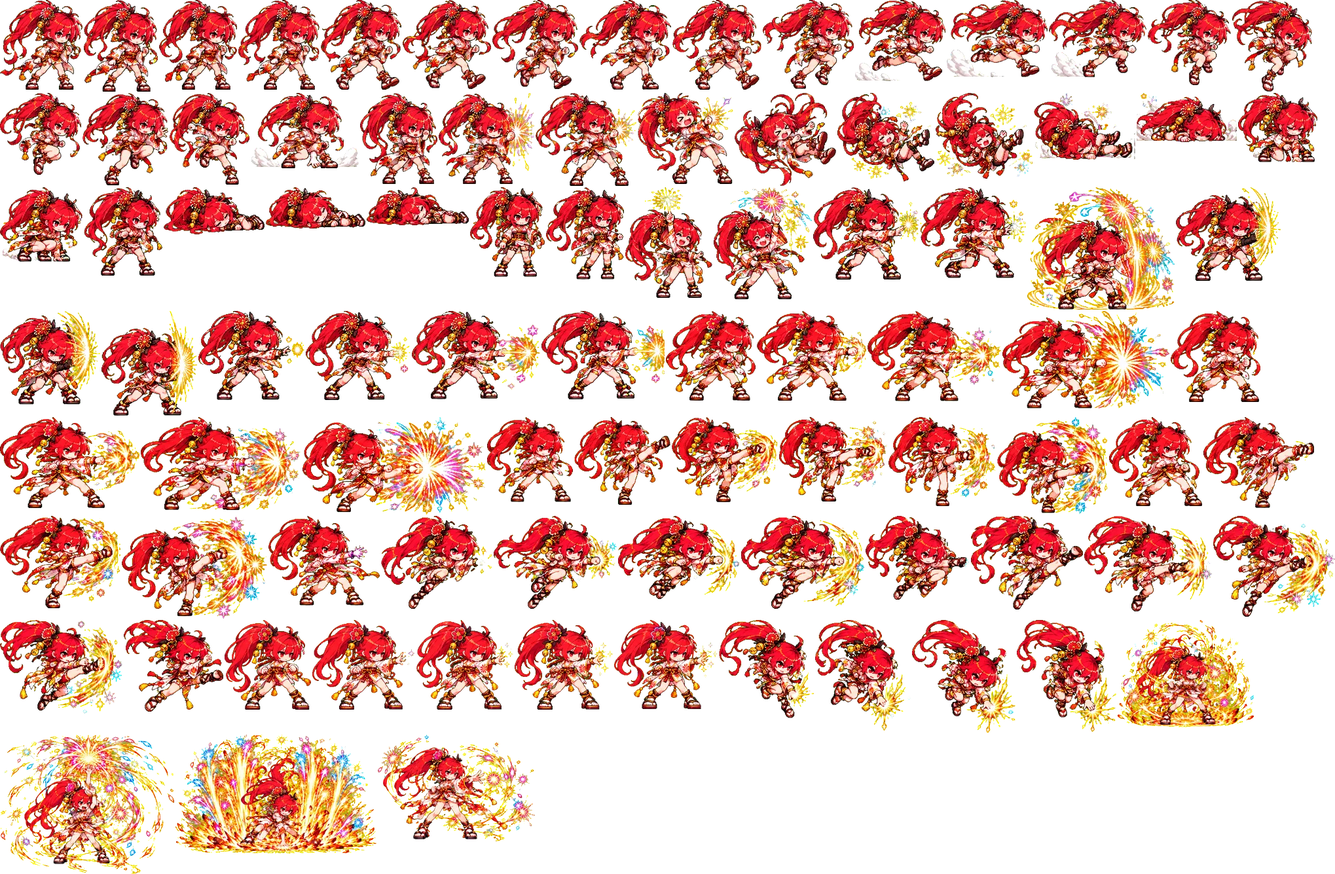
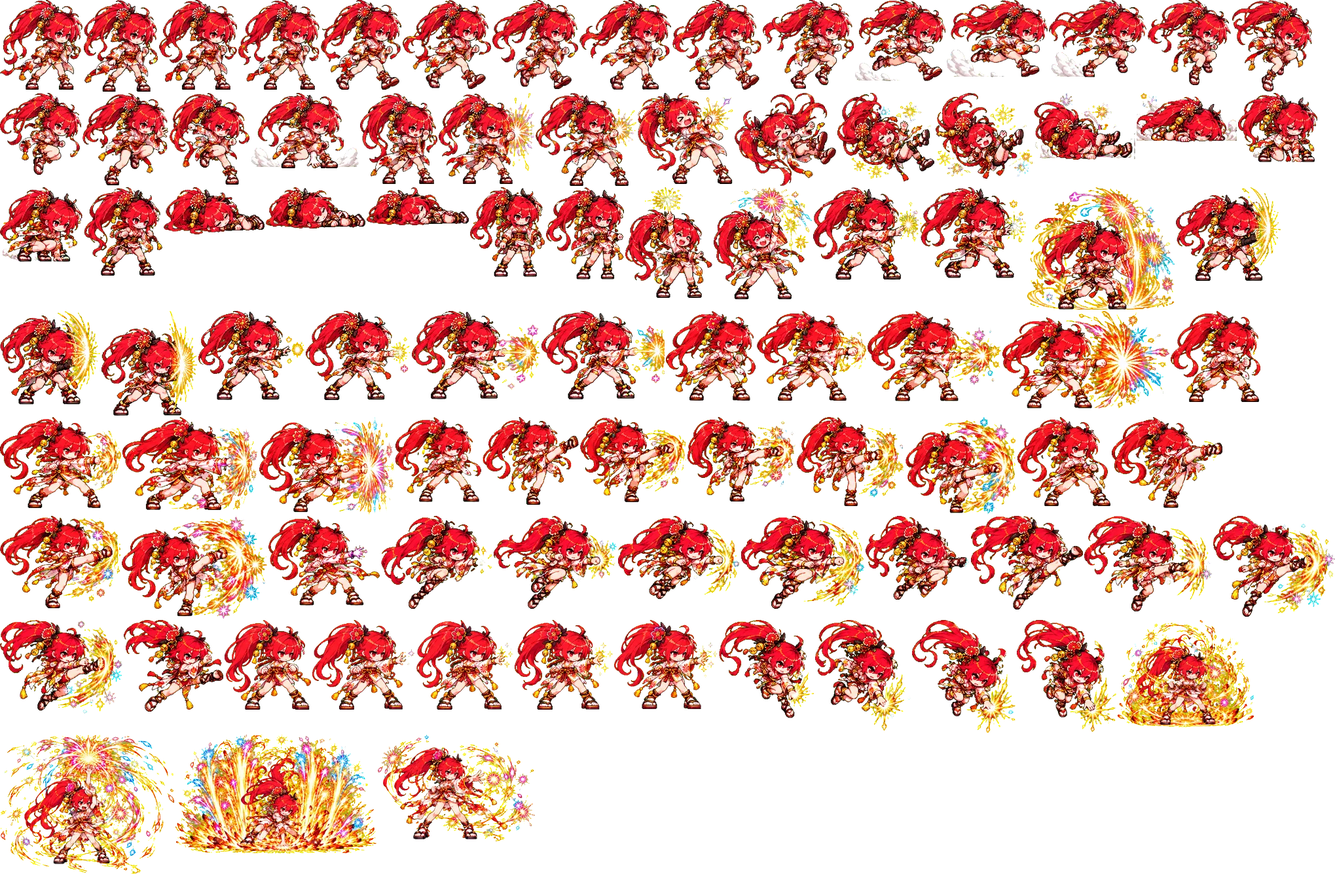
격투: 불꽃놀이 이그나 약공 4타 앞쪽 불꽃 이펙트 줄임 (판정보다 너무 멀리 보이던 것)
- 아틀라스 설정 shrinkFx: 지정 프레임의 앞쪽만 가로로 눌러 줄임 (몸은 그대로)
- 3·4타 프레임 끝 약 99px → 53·65px (판정 52px)

Claude-Session: https://claude.ai/code/session_01Q2UB7i4vqxayb5flgw9kqa

Changed region(s): [[0.0618, 0.4607, 0.9887, 0.5835]]

diff --git a/web/scripts/fight-atlas-v2.py b/web/scripts/fight-atlas-v2.py
@@ -83,6 +83,23 @@ def feet(piece: np.ndarray, anchor="feet"):
     return float(near.mean()), float(foot + 1)
 
 
+def shrink_front(p: np.ndarray, cut: float, k: float) -> np.ndarray:
+    """cut 오른쪽만 가로로 k배 눌러 줄임 (오른쪽을 보는 그림, cut 에서 이어지게 — 이음매 없음)"""
+    h, w = p.shape[:2]
+    c = int(round(cut))
+    if c >= w - 1:
+        return p
+    right = p[:, c:]
+    nw = max(1, round(right.shape[1] * k))
+    f = right.astype(np.float32)
+    f[..., :3] *= f[..., 3:4] / 255
+    g = np.asarray(Image.fromarray(f.astype(np.uint8), "RGBA").resize((nw, h), Image.LANCZOS)).astype(np.float32)
+    g[..., :3] = np.where(g[..., 3:4] > 0, g[..., :3] * 255 / np.maximum(g[..., 3:4], 1), 0)
+    out = np.concatenate([p[:, :c], np.clip(g, 0, 255).astype(np.uint8)], 1)
+    xs = np.where(out[..., 3].max(0) > 0)[0]
+    return out[:, : xs.max() + 1].copy()
+
+
 class Sheets:
     def __init__(self, src: Path, cfg: dict):
         self.src = src
@@ -167,6 +184,12 @@ def build(src_root: Path, cid: str):
     for ref, xy in spec.get("anchorFix", {}).items():
         if ref in seen:
             anchors[seen[ref]] = (float(xy[0]), float(xy[1]))
+    # 앞으로 뻗은 이펙트가 판정보다 너무 커 보이는 프레임: 앞쪽(발 기준 x 픽셀부터)만 k배로 줄임 (몸은 그대로)
+    #   "shrinkFx": {"시트:행.칸": [x, k]} (저장 크기 기준)
+    for ref, (fx_x, k) in spec.get("shrinkFx", {}).items():
+        if ref in seen:
+            i = seen[ref]
+            pieces[i] = shrink_front(pieces[i], anchors[i][0] + fx_x, k)
     idle_h = float(np.median([pieces[i].shape[0] for i in anims["idle"]["list"]]))
     scale = round(idle_h / spec["body"], 3)
     atlas, pos = pack(pieces)
